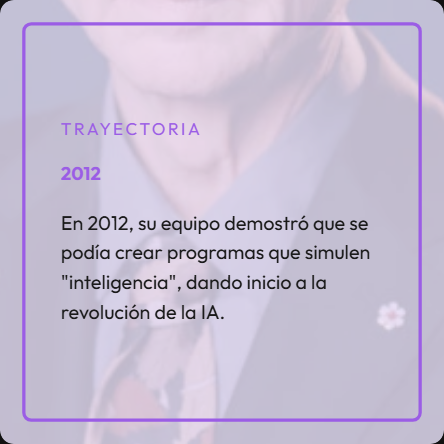
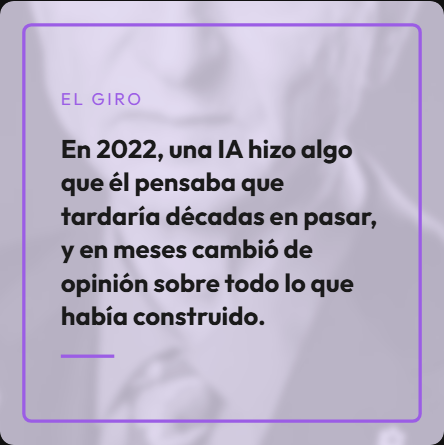
feature: join trayectoria slides

diff --git a/Proceres de la IA/Geoffrey Hinton/Geoffrey_Hinton.html b/Proceres de la IA/Geoffrey Hinton/Geoffrey_Hinton.html
@@ -1,12 +1,11 @@
 <!DOCTYPE html>
-<html lang="es">
-<head>
+<html lang="es"><head>
 <meta charset="UTF-8">
 <meta name="viewport" content="width=device-width, initial-scale=1.0">
 <title>Geoffrey Hinton — Próceres de la IA</title>
 <link rel="preconnect" href="https://fonts.googleapis.com">
-<link rel="preconnect" href="https://fonts.gstatic.com" crossorigin>
-<link href="https://fonts.googleapis.com/css2?family=Outfit:wght@300;400;600;700;900&display=swap" rel="stylesheet">
+<link rel="preconnect" href="https://fonts.gstatic.com" crossorigin="">
+<link href="https://fonts.googleapis.com/css2?family=Outfit:wght@300;400;600;700;900&amp;display=swap" rel="stylesheet">
 <style>
 * { box-sizing: border-box; margin: 0; padding: 0; }
 body {
@@ -185,6 +184,8 @@ header p {
   transition: border-color .2s, color .2s;
 }
 .coord-copy:hover { border-color: #9b5de5; color: #9b5de5; }
+.coord-download { border-color: #1e3a1e; color: #3a7a3a; }
+.coord-download:hover { border-color: #4caf50; color: #4caf50; }
 body.edit-mode .sl { cursor: grab !important; }
 body.edit-mode .sl * { cursor: grab !important; }
 body.edit-mode.dragging .sl,
@@ -196,23 +197,25 @@ body.edit-mode.dragging .sl * { cursor: grabbing !important; }
 <header>
   <div class="pilar-label">Pilar 2 · Profesionales de la IA</div>
   <h2>Geoffrey Hinton</h2>
-  <p>Próceres de la IA · 9 slides · 1080×1080 px</p>
+  <p>Próceres de la IA · 7 slides · 1080×1080 px</p>
 </header>
 
 <div class="ig-wrap">
   <div class="ig-row">
-    <button class="arrow" id="prev" disabled>&#8592;</button>
+    <button class="arrow" id="prev" disabled>←</button>
     <div class="ig-frame" id="frame">
       <div class="ig-track" id="track"></div>
     </div>
-    <button class="arrow" id="next">&#8594;</button>
+    <button class="arrow" id="next">→</button>
   </div>
   <div class="ig-dots" id="dots"></div>
   <div class="edit-bar">
     <button class="edit-toggle" id="editBtn">Edit background</button>
-    <div class="coord-panel" id="coordPanel">
-      <span class="coord-text" id="coordText">—</span>
+    <div class="coord-panel" id="coordPanel" style="display:none">
+      <span class="coord-text" id="coordText">top:-49px; left:-719px</span>
       <button class="coord-copy" id="copyBtn">Copy</button>
+      <button class="coord-copy" id="saveBtn">Saved ✓</button>
+      <button class="coord-copy coord-download" id="downloadBtn">↓ HTML</button>
     </div>
   </div>
 </div>
@@ -242,39 +245,41 @@ const slides = [
     </div>
   </div>`,
 
-  /* 02 · Trayectoria 1986 */
+  /* 02 · Trayectoria */
   `<div class="sl" style="background:${C.bg1};padding:54px">
-    <img src="background/profile_picture.webp" style="position:absolute;width:2600px;height:auto;top:-700px;left:-1000px;opacity:0.2;mix-blend-mode:multiply;z-index:0">
-    <div style="border:8px solid ${C.acc};height:100%;border-radius:22px;display:flex;flex-direction:column;justify-content:center;padding:86px;gap:54px;position:relative;z-index:1">
+    <img src="background/profile_picture.webp" style="position:absolute;width:2600px;height:auto;top:-700px;left:-1000px;opacity:0.25;mix-blend-mode:multiply;filter:grayscale(1) blur(8px);z-index:0">
+    <div style="border:8px solid ${C.acc};height:100%;border-radius:22px;display:flex;flex-direction:column;justify-content:center;padding:86px;gap:48px;position:relative;z-index:1">
       <div style="font-size:2.6rem;letter-spacing:.15em;text-transform:uppercase;color:${C.acc}">Trayectoria</div>
-      <div style="font-size:2.8rem;font-weight:700;color:${C.acc}">1986</div>
-      <div style="font-size:3.0rem;color:${C.txt};line-height:1.5">En 1986, publicó el descubrimiento que hace posible que las máquinas aprendan. Sin él, no existiría ninguna IA actual.</div>
-    </div>
-  </div>`,
-
-  /* 03 · Trayectoria 2012 */
-  `<div class="sl" style="background:${C.bg1};padding:54px">
-    <img src="background/profile_picture.webp" style="position:absolute;width:2600px;height:auto;top:-1400px;left:-760px;opacity:0.2;mix-blend-mode:multiply;z-index:0">
-    <div style="border:8px solid ${C.acc};height:100%;border-radius:22px;display:flex;flex-direction:column;justify-content:center;padding:86px;gap:54px;position:relative;z-index:1">
-      <div style="font-size:2.6rem;letter-spacing:.15em;text-transform:uppercase;color:${C.acc}">Trayectoria</div>
-      <div style="font-size:2.8rem;font-weight:700;color:${C.acc}">2012</div>
-      <div style="font-size:3.0rem;color:${C.txt};line-height:1.5">En 2012, su equipo demostró que se podía crear programas que simulen "inteligencia", dando inicio a la revolución de la IA.</div>
-    </div>
-  </div>`,
-
-  /* 04 · Trayectoria 2018 */
-  `<div class="sl" style="background:${C.bg1};padding:54px">
-    <img src="background/profile_picture.webp" style="position:absolute;width:2600px;height:auto;top:-600px;left:-760px;opacity:0.2;mix-blend-mode:multiply;z-index:0">
-    <div style="border:8px solid ${C.acc};height:100%;border-radius:22px;display:flex;flex-direction:column;justify-content:center;padding:86px;gap:54px;position:relative;z-index:1">
-      <div style="font-size:2.6rem;letter-spacing:.15em;text-transform:uppercase;color:${C.acc}">Trayectoria</div>
-      <div style="font-size:2.8rem;font-weight:700;color:${C.acc}">2018</div>
-      <div style="font-size:3.0rem;color:${C.txt};line-height:1.5">En 2018, recibió el premio Turing, que es como el "Nobel de la Computación".</div>
+      <div style="position:relative;display:flex;flex-direction:column">
+        <div style="position:absolute;left:17px;top:22px;bottom:22px;width:6px;background:${C.acc};border-radius:3px"></div>
+        <div style="display:flex;gap:48px;align-items:flex-start;padding-bottom:62px">
+          <div style="width:40px;height:40px;border-radius:50%;background:${C.acc};flex-shrink:0;margin-top:2px;position:relative;z-index:1"></div>
+          <div>
+            <div style="font-size:2.8rem;font-weight:700;color:${C.acc};line-height:1">1986</div>
+            <div style="font-size:2.6rem;color:${C.txt};line-height:1.45;margin-top:14px">Publicó el descubrimiento que hace posible que las máquinas aprendan. Sin él, no existiría ninguna IA actual.</div>
+          </div>
+        </div>
+        <div style="display:flex;gap:48px;align-items:flex-start;padding-bottom:62px">
+          <div style="width:40px;height:40px;border-radius:50%;background:${C.acc};flex-shrink:0;margin-top:2px;position:relative;z-index:1"></div>
+          <div>
+            <div style="font-size:2.8rem;font-weight:700;color:${C.acc};line-height:1">2012</div>
+            <div style="font-size:2.6rem;color:${C.txt};line-height:1.45;margin-top:14px">Su equipo demostró que las máquinas podían simular inteligencia, dando inicio a la revolución del deep learning.</div>
+          </div>
+        </div>
+        <div style="display:flex;gap:48px;align-items:flex-start">
+          <div style="width:40px;height:40px;border-radius:50%;background:${C.acc};flex-shrink:0;margin-top:2px;position:relative;z-index:1"></div>
+          <div>
+            <div style="font-size:2.8rem;font-weight:700;color:${C.acc};line-height:1">2018</div>
+            <div style="font-size:2.6rem;color:${C.txt};line-height:1.45;margin-top:14px">Recibió el Premio Turing — el "Nobel de la Computación".</div>
+          </div>
+        </div>
+      </div>
     </div>
   </div>`,
 
   /* 05 · El giro */
   `<div class="sl" style="background:${C.bg1};padding:54px">
-    <img src="background/profile_picture.webp" style="position:absolute;width:2600px;height:auto;top:-1100px;left:-760px;opacity:0.2;mix-blend-mode:multiply;z-index:0">
+    <img src="background/profile_picture.webp" style="position:absolute;width:2600px;height:auto;top:-1100px;left:-760px;opacity:0.25;mix-blend-mode:multiply;filter:grayscale(1) blur(8px);z-index:0">
     <div style="border:8px solid ${C.acc};height:100%;border-radius:22px;display:flex;flex-direction:column;justify-content:center;padding:86px;gap:54px;position:relative;z-index:1">
       <div style="font-size:2.6rem;letter-spacing:.15em;text-transform:uppercase;color:${C.acc}">El giro</div>
       <div style="font-size:3.9rem;font-weight:700;color:${C.txt};line-height:1.3">En 2022, una IA hizo algo que él pensaba que tardaría décadas en pasar, y en meses cambió de opinión sobre todo lo que había construido.</div>
@@ -284,7 +289,7 @@ const slides = [
 
   /* 06 · Trayectoria 2024 */
   `<div class="sl" style="background:${C.bg1};padding:54px">
-    <img src="background/profile_picture.webp" style="position:absolute;width:2600px;height:auto;top:-700px;left:-500px;opacity:0.2;mix-blend-mode:multiply;z-index:0">
+    <img src="background/profile_picture.webp" style="position:absolute;width:2600px;height:auto;top:-700px;left:-500px;opacity:0.25;mix-blend-mode:multiply;filter:grayscale(1) blur(8px);z-index:0">
     <div style="border:8px solid ${C.acc};height:100%;border-radius:22px;display:flex;flex-direction:column;justify-content:center;padding:86px;gap:54px;position:relative;z-index:1">
       <div style="font-size:2.6rem;letter-spacing:.15em;text-transform:uppercase;color:${C.acc}">Trayectoria</div>
       <div style="font-size:2.8rem;font-weight:700;color:${C.acc}">2024</div>
@@ -304,7 +309,7 @@ const slides = [
 
   /* 08 · Para pensar */
   `<div class="sl" style="background:${C.bg1};padding:54px">
-    <img src="background/profile_picture.webp" style="position:absolute;width:2600px;height:auto;top:0px;left:-760px;opacity:0.2;mix-blend-mode:multiply;z-index:0">
+    <img src="background/profile_picture.webp" style="position:absolute;width:2600px;height:auto;top:-49px;left:-719px;opacity:0.25;mix-blend-mode:multiply;filter:grayscale(1) blur(8px);z-index:0">
     <div style="border:8px solid ${C.acc};height:100%;border-radius:22px;display:flex;flex-direction:column;justify-content:center;padding:86px;gap:54px;position:relative;z-index:1">
       <div style="font-size:2.6rem;letter-spacing:.15em;text-transform:uppercase;color:${C.acc}">Para pensar</div>
       <div style="font-size:4.2rem;font-weight:700;color:${C.txt};line-height:1.3">¿Es responsable seguir construyendo algo que sus propios creadores admiten que no pueden controlar?</div>
@@ -400,6 +405,8 @@ const editBtn    = document.getElementById('editBtn');
 const coordPanel = document.getElementById('coordPanel');
 const coordText  = document.getElementById('coordText');
 const copyBtn    = document.getElementById('copyBtn');
+const saveBtn    = document.getElementById('saveBtn');
+const downloadBtn = document.getElementById('downloadBtn');
 
 function parseObjPos(style) {
   const raw = (style.objectPosition || '50% 50%').trim();
@@ -516,6 +523,95 @@ copyBtn.addEventListener('click', () => {
     setTimeout(() => { copyBtn.textContent = 'Copy'; }, 1500);
   });
 });
+
+saveBtn.addEventListener('click', () => {
+  const slEls = document.querySelectorAll('.sl');
+  const sl = slEls[current];
+  const img = sl ? sl.querySelector('img') : null;
+  if (!img) {
+    saveBtn.textContent = 'No BG';
+    setTimeout(() => { saveBtn.textContent = 'Save'; }, 1200);
+    return;
+  }
+
+  const scriptEl = document.querySelector('script');
+  const isOF = !!img.style.objectFit;
+
+  if (isOF) {
+    const newVal = img.style.objectPosition;
+    const oldMatch = slides[current].match(/object-position:([^;'">\s]+)/);
+    if (oldMatch) {
+      const oldVal = oldMatch[1];
+      if (oldVal !== newVal) {
+        const from = `object-position:${oldVal}`;
+        const to   = `object-position:${newVal}`;
+        slides[current]         = slides[current].replace(from, to);
+        scriptEl.textContent    = scriptEl.textContent.replace(from, to);
+      }
+    }
+  } else {
+    const newTop  = Math.round(parseFloat(img.style.top))  + 'px';
+    const newLeft = Math.round(parseFloat(img.style.left)) + 'px';
+    const topMatch  = slides[current].match(/top:(-?\d+(?:\.\d+)?px)/);
+    const leftMatch = slides[current].match(/left:(-?\d+(?:\.\d+)?px)/);
+    if (topMatch && leftMatch) {
+      const oldCombo = `top:${topMatch[1]};left:${leftMatch[1]}`;
+      const newCombo = `top:${newTop};left:${newLeft}`;
+      if (oldCombo !== newCombo) {
+        slides[current]      = slides[current].replace(oldCombo, newCombo);
+        scriptEl.textContent = scriptEl.textContent.replace(oldCombo, newCombo);
+      }
+    }
+  }
+
+  saveBtn.textContent = 'Saved ✓';
+  setTimeout(() => { saveBtn.textContent = 'Save'; }, 1500);
+});
+
+downloadBtn.addEventListener('click', () => {
+  // Strip runtime DOM so the downloaded file doesn't have pre-built slides
+  // that would double up when the script runs on load.
+  const trackContent   = track.innerHTML;
+  const trackWidth     = track.style.width;
+  const trackTransform = track.style.transform;
+  const prevDis        = prevBtn.disabled;
+  const nextDis        = nextBtn.disabled;
+  const hadEdit        = document.body.classList.contains('edit-mode');
+
+  track.innerHTML      = '';
+  track.style.width    = '';
+  track.style.transform = '';
+  prevBtn.disabled     = false;
+  nextBtn.disabled     = false;
+  coordPanel.style.display = 'none';
+  editBtn.classList.remove('active');
+  document.body.classList.remove('edit-mode');
+
+  const html = '<!DOCTYPE html>\n' + document.documentElement.outerHTML;
+
+  // Restore live state
+  track.innerHTML      = trackContent;
+  track.style.width    = trackWidth;
+  track.style.transform = trackTransform;
+  prevBtn.disabled     = prevDis;
+  nextBtn.disabled     = nextDis;
+  if (hadEdit) {
+    document.body.classList.add('edit-mode');
+    coordPanel.style.display = 'flex';
+    editBtn.classList.add('active');
+  }
+
+  const blob = new Blob([html], { type: 'text/html;charset=utf-8' });
+  const url  = URL.createObjectURL(blob);
+  const a    = document.createElement('a');
+  a.href = url;
+  a.download = 'Geoffrey_Hinton.html';
+  document.body.appendChild(a);
+  a.click();
+  document.body.removeChild(a);
+  URL.revokeObjectURL(url);
+});
 </script>
-</body>
-</html>
+
+
+</body></html>

diff --git a/Proceres de la IA/Geoffrey Hinton/screenshot_page.js b/Proceres de la IA/Geoffrey Hinton/screenshot_page.js
@@ -1,0 +1,14 @@
+const { chromium } = require('playwright');
+const path = require('path');
+
+(async () => {
+  const browser = await chromium.launch();
+  const page = await browser.newPage();
+  await page.setViewportSize({ width: 700, height: 900 });
+  const file = path.resolve(__dirname, 'Geoffrey_Hinton.html').replace(/\\/g, '/');
+  await page.goto('file:///' + file);
+  await page.waitForLoadState('networkidle');
+  await page.screenshot({ path: path.join(__dirname, 'fullpage.png'), fullPage: true });
+  await browser.close();
+  console.log('done');
+})();
